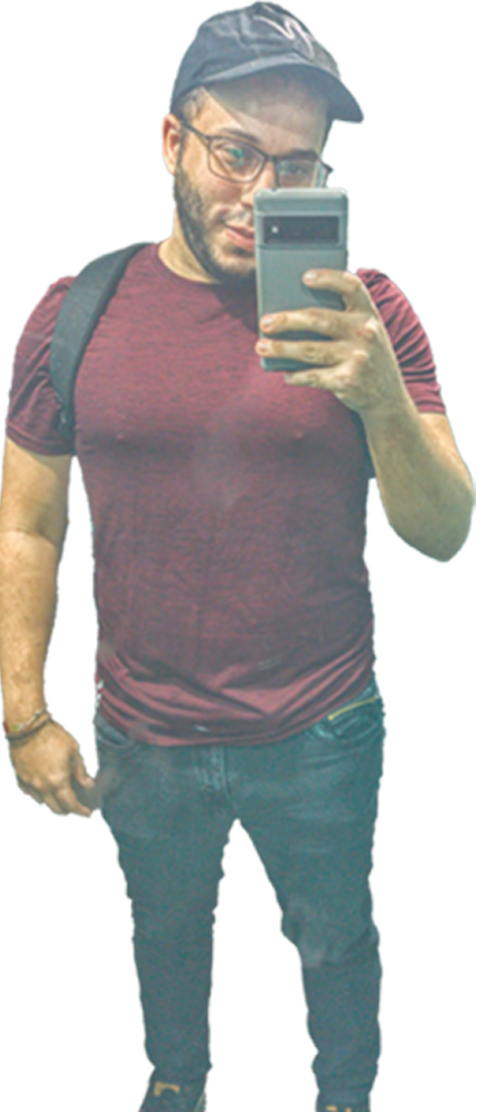
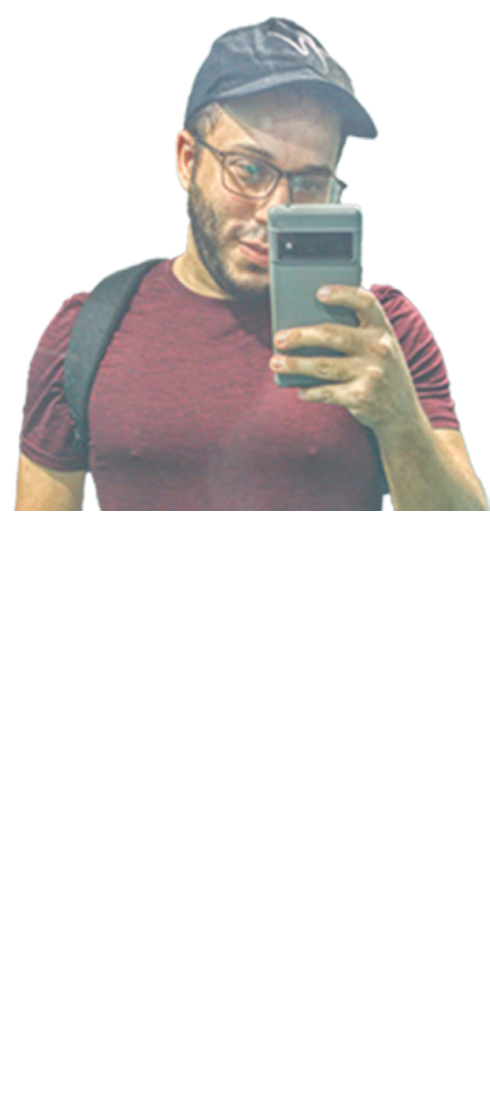
mobile responsiveness issues

diff --git a/src/components/About/About.jsx b/src/components/About/About.jsx
@@ -1,9 +1,9 @@
 import React from "react";
 import "./about.css";
-import ME1 from "../../assets/me-about1.png"
-import { FaAward } from "react-icons/fa"
-import { FiUsers } from "react-icons/fi"
-import { VscFolderLibrary } from "react-icons/vsc"
+import ME1 from "../../assets/me-about1.png";
+import { FaAward } from "react-icons/fa";
+import { FiUsers } from "react-icons/fi";
+import { VscFolderLibrary } from "react-icons/vsc";
 
 const About = () => {
   return (
@@ -12,7 +12,7 @@ const About = () => {
       <h2>About Me</h2>
 
       <div className="container about__container">
-        <div className="about__me">
+        <div className="about__me image__container">
           <div className="about__me-image ">
             <img className="about-section-image" src={ME1} alt="" />
           </div>
@@ -37,18 +37,21 @@ const About = () => {
               <h5>Projects</h5>
               <small>10+ Completed</small>
             </article>
-
           </div>
 
-          <p> Lorem ipsum dolor sit amet consectetur adipisicing elit.
-            Corrupti repudiandae iure et vitae illo quo saepe non dolores
-            ad quidem officia veritatis voluptates repellat temporibus autem
-            eligendi dolor, totam consequuntur?
+          <p>
+            {" "}
+            Lorem ipsum dolor sit amet consectetur adipisicing elit. Corrupti
+            repudiandae iure et vitae illo quo saepe non dolores ad quidem
+            officia veritatis voluptates repellat temporibus autem eligendi
+            dolor, totam consequuntur?
           </p>
 
-          <a href="#contact" className="btn btn-primary"> Let's Talk</a>
+          <a href="#contact" className="btn btn-primary">
+            {" "}
+            Let's Talk
+          </a>
         </div>
-
       </div>
     </section>
   );

diff --git a/src/components/Header/header.css b/src/components/Header/header.css
@@ -58,9 +58,9 @@ header {
 }
 
 .image-me{
-    height: 30rem;
-    width: 100%;
-    overflow: hidden;
+width: 25rem;
+height: auto;
+    
 }
 
 /* ========================= SCROLL DOWN ==================== */
@@ -88,28 +88,30 @@ header {
 }
 
 /* =========================== MEDIA QUERY(Small) */
-
+ 
 @media screen and (max-width: 600px){
     header{
         height: 100vh;
         
     }
 
-    .image-and-div{
-        position: relative;
-        object-fit: cover
+    .header-top{
+        position: relative; left: -1rem;
     }
+
+.image-and-div{
+    position: relative;
+}
+
     .me{
-       background: none;
-       height: 10rem;
-       
-       position: absolute;right: -5rem;
+        width: 22rem;
+        height: 25rem;
+        position: absolute; left: -1.2rem
     }
-    
+
     .image-me{
-       width: 500px;
-       height: 540px;
-       overflow:hidden;
+        width: 20rem;
+        height: auto;
     }
     
     .header__socials {

diff --git a/src/components/Header/Header.jsx b/src/components/Header/Header.jsx
@@ -9,15 +9,17 @@ const Header = () => {
   return (
     <header>
       <div className="container header__container">
-        <h5>Hello I'm</h5>
-        <h1>David Franjul</h1>
-        <h5 className="text-light">Front End Developer</h5>
-        <CTA />
-        <Headersocials />
+        <div className="header-top">
+          <h5>Hello I'm</h5>
+          <h1>David Franjul</h1>
+          <h5 className="text-light">Front End Developer</h5>
+          <CTA />
+          <Headersocials />
+        </div>
         <div className="image-and-div">
           <div className="me">
-            <div className="image-me">
-              <img src={meSMALL} alt="me" />
+            <div>
+              <img src={meSMALL} alt="me" className="image-me" />
             </div>
           </div>
         </div>

diff --git a/src/components/About/about.css b/src/components/About/about.css
@@ -107,8 +107,15 @@ max-height: auto;
     .about__me{
         width: 65%;
         margin: 0 auto 3rem;
-        
+            }
 
+    .image__container{
+            position: relative; right: .9rem;
+    }
+
+    .about__me-image{
+        margin-right: auto;
+        margin-left: auto;
     }
 
     .about-section-image{
@@ -116,7 +123,7 @@ max-height: auto;
         
     }
 
-    .about__card{
+    .about__cards{
         grid-template-columns: 1fr 1fr;
         gap: 1rem;
 

diff --git a/src/components/PortFolio/portfolio.css b/src/components/PortFolio/portfolio.css
@@ -63,11 +63,12 @@
         grid-template-columns: 1fr;
         gap: 1.5rem;
         position: relative; right: 2rem;
+        
     }
 
     .portfolio__item-image{
-        width: 25rem;
-        height: 23rem;
+        width: 20rem;
+        height: 17rem;
     }
 
 

diff --git a/src/components/Nav/nav.css b/src/components/Nav/nav.css
@@ -35,3 +35,13 @@ nav a.active{
     
 }
 
+
+/* =========================== MEDIA QUERY(Small) */
+ 
+@media screen and (max-width: 600px){
+   nav {
+    position: fixed; left: 13rem;
+   }
+    
+}
+    
